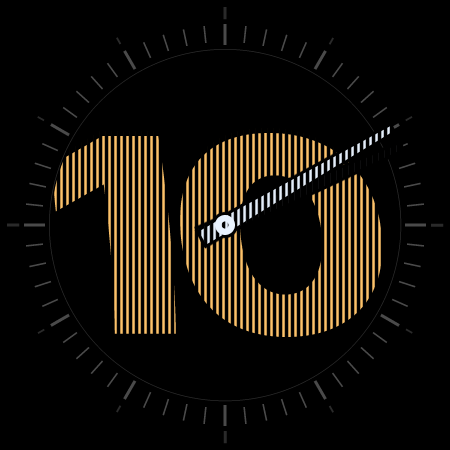
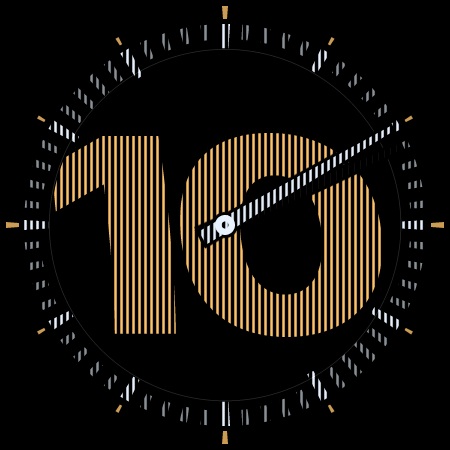
Scanimation: the tick ring dances with the numeral
Minute ticks become bold striped wedges in twelve chained Scanimation
frames under the white minute sheet, on the dance clock: they kick inward
on each beat while two crests chase round the dial. Hour indices print in
amber. Ambient keeps still grey ticks.

Claude-Session: https://claude.ai/code/session_01GnfoPmxsTXWwgWKX46TpFX

diff --git a/faces/scanimation/generate_xml.py b/faces/scanimation/generate_xml.py
@@ -46,6 +46,18 @@ Hours dance between changes
     hour change begins. In ambient the dance windows are hidden and the
     plain hour chain shows.
 
+The minute ring dances too
+    The sixty minute ticks are bold wedges (every tick at least one barrier
+    period wide, so even the ones parallel to the slits show in every frame)
+    seen through the white minute sheet. TICK_FRAMES frames chain exactly like
+    the dance, on the same clock, so they move together: on every beat, when
+    the numeral squashes, all the ticks kick inward, and two crests chase
+    each other round the dial, the ticks under them reaching in like an
+    equaliser. The ring never stops, not even during the hour change. Five-
+    minute ticks are printed solid, the others at TICK_DIM. The hour indices
+    outside the ring are printed in the numerals' amber. Ambient shows still,
+    grey ticks instead.
+
 Minutes: an analog hand, also a Scanimation
     Sixty minute windows, built the same way as the hours: window m
     interleaves the hand at minute m and at minute m+1 in the same 3 px
@@ -97,8 +109,14 @@ MINUTE_COLUMN = MINUTE_PERIOD / 2
 MINUTE_RULE = 2.5              # px
 
 RING_IN, RING_OUT = 180, 201                 # minute ring (safe inset 24 -> r <= 201)
-TICK = (RING_IN + 3, RING_OUT - 1, 1.6)      # printed minute marking: r0, r1, width
-TICK_FIVE = (RING_IN, RING_OUT, 3.0)         # printed five-minute marking
+TICK_MINUTE = (RING_OUT - 10, RING_OUT, 6.0, 7.5)       # minute tick: r0, r1, inner width, outer width
+TICK_FIVE = (RING_OUT - 19, RING_OUT, 7.0, 10.0) # five-minute tick
+TICK_DIM = 0.6               # minute ticks print at this strength, five-minute ticks at 1
+TICK_FRAMES = 12             # the ring's loop, on the dance clock
+TICK_KICK = 5.0              # px: every tick reaches inward on each beat...
+TICK_CREST = 10.0            # px: ...and further under the two travelling crests
+TICK_CREST_WIDTH = 6         # crest sharpness (power of a raised cosine)
+HOUR_INDEX_STRENGTH = 0.8    # amber hour indices outside the ring
 
 NUMERAL_HEIGHT = 224        # cap height of the hour numerals
 HOUR_LABELS = ["12"] + [str(h) for h in range(1, 12)]
@@ -106,7 +124,7 @@ HOUR_LABELS = ["12"] + [str(h) for h in range(1, 12)]
 HOUR_INK = "#FFFFC46B"
 MINUTE_INK = "#FFE9F3FF"
 PLATE_PRINT = "#FF2A2A2A"
-MINUTE_PRINT = "#FF4A4A4A"
+MINUTE_PRINT = "#FF4A4A4A"   # ambient ticks
 
 # Seconds past 12:00, shifted back so each window's change ends WINDOW_LAG after the hour.
 WINDOW_CLOCK = (f"((([HOUR_0_23] % 12) * 3600 + [MINUTE] * 60 + [SECOND] + {43200 - WINDOW_LAG})"
@@ -119,6 +137,9 @@ INTO = (f"(([MINUTE] * 60 + [SECOND] + {3600 - WINDOW_LAG % 3600}) % 3600"
 DANCE = f"(clamp({INTO}, 0, {DANCE_SECONDS}) * {DANCE_RATE})"   # frames danced
 DANCE_FRAME = f"(floor({DANCE}) % {DANCE_FRAMES})"
 DANCING = f"{INTO} < {DANCE_SECONDS}"
+TICKS = f"({INTO} * {DANCE_RATE})"           # ring frames, in step with the dance
+TICK_FRAME = f"(floor({TICKS}) % {TICK_FRAMES})"
+TICK_X = f"({-MINUTE_PERIOD} + ({TICKS} * {MINUTE_COLUMN:g}) % {MINUTE_PERIOD})"
 HOUR_X = f"({-HOUR_PERIOD} + (({WINDOW} + {CHANGE}) * {HOUR_COLUMN:g}) % {HOUR_PERIOD})"
 DANCE_X = f"({-HOUR_PERIOD} + (({WINDOW} + {DANCE}) * {HOUR_COLUMN:g}) % {HOUR_PERIOD})"
 MINUTE_X = (f"({-MINUTE_PERIOD} + (([MINUTE] + ([SECOND] + [MILLISECOND] / 1000) / 60)"
@@ -143,11 +164,13 @@ def downsample(mask):
     return mask.reshape(h // SS, SS, w // SS, SS).mean(axis=(1, 3))
 
 
-def radial_bar(x, y, angle, r0, r1, width):
-    """A radial marking at `angle` degrees clockwise from twelve."""
+def radial_bar(x, y, angle, r0, r1, width, outer_width=None):
+    """A radial marking at `angle` degrees clockwise from twelve, optionally tapered."""
     a = math.radians(angle)
     along = x * math.sin(a) - y * math.cos(a)
     across = x * math.cos(a) + y * math.sin(a)
+    if outer_width is not None:
+        width = width + (outer_width - width) * np.clip((along - r0) / (r1 - r0), 0, 1)
     return (along >= r0) & (along <= r1) & (np.abs(across) <= width / 2)
 
 
@@ -312,26 +335,55 @@ def hour_sheet():
     return downsample(band(x, HOUR_COLUMN / 2, HOUR_RULE, HOUR_PERIOD))
 
 
+def tick_marks(t=None):
+    """The sixty ticks as supersampled strength; t is the ring's loop phase (None: at rest)."""
+    x, y = grid(SIZE, SIZE)
+    marks = np.zeros_like(x, dtype=np.float32)
+    beat = 0 if t is None else (1 - math.cos(4 * math.pi * t)) / 2   # the dance's beat
+    for m in range(60):
+        r0, r1, w0, w1 = TICK_FIVE if m % 5 == 0 else TICK_MINUTE
+        if t is not None:
+            theta = math.radians(m * 6)
+            crest = ((1 + math.cos(2 * (theta - math.pi * t))) / 2) ** TICK_CREST_WIDTH
+            r0 -= TICK_KICK * beat + TICK_CREST * crest
+        strength = 1.0 if m % 5 == 0 else TICK_DIM
+        marks = np.maximum(marks, strength * radial_bar(x, y, m * 6, r0, r1, w0, w1))
+    return marks
+
+
 def minute_print():
-    """Sixty faint minute markings printed on the plate."""
+    """The ticks at rest, printed grey for ambient."""
+    return downsample(tick_marks())
+
+
+def tick_windows():
+    """Ring window p: the ticks in frame p and frame p + 1 in alternating columns, cropped."""
+    x, _ = grid(SIZE, SIZE)
+    column = np.floor((x % MINUTE_PERIOD) / MINUTE_COLUMN).astype(int)
+    frames = [tick_marks(p / TICK_FRAMES) for p in range(TICK_FRAMES)]
+    out = []
+    for p in range(TICK_FRAMES):
+        nxt = frames[(p + 1) % TICK_FRAMES]
+        out.append(crop(downsample(np.where(column == p % 2, frames[p], nxt))))
+    return out
+
+
+def hour_index_print():
+    """Amber hour indices outside the ring, longer at 12, 3, 6 and 9."""
     x, y = grid(SIZE, SIZE)
     marks = np.zeros_like(x, dtype=bool)
-    for m in range(60):
-        marks |= radial_bar(x, y, m * 6, *(TICK_FIVE if m % 5 == 0 else TICK))
-    return downsample(marks)
+    for i in range(12):
+        if i % 3 == 0:
+            marks |= radial_bar(x, y, i * 30, RING_OUT + 5, RING_OUT + 18, 4.0, 6.0)
+        else:
+            marks |= radial_bar(x, y, i * 30, RING_OUT + 7, RING_OUT + 15, 2.5, 3.5)
+    return downsample(marks) * HOUR_INDEX_STRENGTH
 
 
 def plate_print():
-    """Dim marks printed on the black mask: hour indices and the window rim."""
+    """Dim window rim printed on the black mask."""
     img = Image.new("L", (SIZE * SS, SIZE * SS), 0)
     draw = ImageDraw.Draw(img)
-    for i in range(12):
-        a = math.radians(i * 30)
-        r0, r1 = (RING_OUT + 5, RING_OUT + 17) if i % 3 == 0 else (RING_OUT + 8, RING_OUT + 15)
-        w = 3.2 if i % 3 == 0 else 2.0
-        p0 = (C + r0 * math.sin(a), C - r0 * math.cos(a))
-        p1 = (C + r1 * math.sin(a), C - r1 * math.cos(a))
-        draw.line([(p0[0] * SS, p0[1] * SS), (p1[0] * SS, p1[1] * SS)], fill=255, width=int(w * SS))
     rr = RING_IN - 4
     draw.ellipse([(C - rr) * SS, (C - rr) * SS, (C + rr) * SS, (C + rr) * SS],
                  outline=255, width=int(0.75 * SS))
@@ -383,11 +435,19 @@ def slide(sheet, shift, margin):
     return (1 - frac) * a + frac * b
 
 
-def simulate(seconds, layers):
+def tick_state(seconds):
+    """Ring sheet offset in px and ring frame (mirrors TICK_X and TICK_FRAME)."""
+    into = (seconds - WINDOW_LAG) % 3600
+    ticks = into * DANCE_RATE
+    return (ticks * MINUTE_COLUMN) % MINUTE_PERIOD, math.floor(ticks) % TICK_FRAMES
+
+
+def simulate(seconds, layers, ambient=False):
     """Composite the face at a time given as seconds past 12:00."""
-    windows, hsheet, plate, mprint, mwindows, msheet, backing, cap, dances = layers
+    (windows, hsheet, plate, mprint, mwindows, msheet, backing, cap, dances,
+     hprint, twindows) = layers
     offset, window, frame = hour_state(seconds)
-    if frame is None:
+    if frame is None or ambient:
         hwin = windows[window]
     else:
         dalpha, (dx, dy, dw, dh) = dances[window][frame]
@@ -400,7 +460,15 @@ def simulate(seconds, layers):
     black = np.maximum(rotate(backing, minute * 6), rotate(backing, minute * 6 + 6))
     out = np.zeros((SIZE, SIZE, 3))
     out += plate[..., None] * hex_rgb(PLATE_PRINT)
-    out += mprint[..., None] * hex_rgb(MINUTE_PRINT)
+    out += hprint[..., None] * hex_rgb(HOUR_INK)
+    if ambient:
+        out += mprint[..., None] * hex_rgb(MINUTE_PRINT)
+    else:
+        toffset, tframe = tick_state(seconds)
+        talpha, (tx, ty, tw, th) = twindows[tframe]
+        twin = np.zeros((SIZE, SIZE))
+        twin[ty:ty + th, tx:tx + tw] = talpha
+        out += (slide(msheet, toffset, MINUTE_PERIOD) * twin)[..., None] * hex_rgb(MINUTE_INK)
     out += (slide(hsheet, offset, HOUR_PERIOD) * hwin)[..., None] * hex_rgb(HOUR_INK)
     out *= (1 - black)[..., None]
     out += (slide(msheet, moffset, MINUTE_PERIOD) * mwin)[..., None] * hex_rgb(MINUTE_INK)
@@ -487,7 +555,38 @@ def minute_ink(m, box):
     </Group>"""
 
 
-def xml(minute_boxes, dance_boxes):
+def tick_layers(tick_boxes):
+    """Live: the dancing ring windows. Ambient: the ticks printed still."""
+    live = []
+    for p, (x, y, w, h) in enumerate(tick_boxes):
+        live.append(f"""      <Group x="0" y="0" width="{SIZE}" height="{SIZE}" name="ticks_{p}">
+        <Transform target="alpha" value="{attr(TICK_FRAME)} == {p} ? 255 : 0" />
+        <Group x="{-MINUTE_PERIOD}" y="0" width="{SIZE + MINUTE_PERIOD}" height="{SIZE}" renderMode="SOURCE" name="ticks_{p}_rules">
+          <Transform target="x" value="{attr(TICK_X)}" />
+          <PartImage x="0" y="0" width="{SIZE + MINUTE_PERIOD}" height="{SIZE}">
+            <Image resource="scan_sheet_minute" />
+          </PartImage>
+        </Group>
+        <Group x="0" y="0" width="{SIZE}" height="{SIZE}" renderMode="MASK" name="ticks_{p}_window">
+          <PartImage x="{x}" y="{y}" width="{w}" height="{h}">
+            <Image resource="scan_ticks_{p}" />
+          </PartImage>
+        </Group>
+      </Group>""")
+    nl = chr(10)
+    return f"""    <Group x="0" y="0" width="{SIZE}" height="{SIZE}" name="ticks_live">
+      <Variant mode="AMBIENT" target="alpha" value="0" />
+{nl.join(live)}
+    </Group>
+    <Group x="0" y="0" width="{SIZE}" height="{SIZE}" alpha="0" name="ticks_ambient">
+      <Variant mode="AMBIENT" target="alpha" value="255" />
+      <PartImage x="0" y="0" width="{SIZE}" height="{SIZE}" name="minute_markings_print">
+        <Image resource="scan_minute_print" />
+      </PartImage>
+    </Group>"""
+
+
+def xml(minute_boxes, dance_boxes, tick_boxes):
     return f"""<?xml version="1.0" encoding="utf-8"?>
 <!-- Generated by generate_xml.py. Edit the generator, not this file. -->
 <WatchFace width="{SIZE}" height="{SIZE}">
@@ -497,9 +596,10 @@ def xml(minute_boxes, dance_boxes):
     <PartImage x="0" y="0" width="{SIZE}" height="{SIZE}" name="mask_plate_print">
       <Image resource="scan_plate" />
     </PartImage>
-    <PartImage x="0" y="0" width="{SIZE}" height="{SIZE}" name="minute_markings_print">
-      <Image resource="scan_minute_print" />
+    <PartImage x="0" y="0" width="{SIZE}" height="{SIZE}" name="hour_index_print">
+      <Image resource="scan_hour_print" />
     </PartImage>
+{tick_layers(tick_boxes)}
 {hour_layers(dance_boxes)}
 {backing(0, "[MINUTE]")}
 {backing(1, "([MINUTE] + 1)")}
@@ -543,14 +643,20 @@ def main():
     save_alpha(hsheet, "scan_sheet_hour", HOUR_INK)
     save_alpha(plate, "scan_plate", PLATE_PRINT)
     save_alpha(mprint, "scan_minute_print", MINUTE_PRINT)
+    hprint, twindows = hour_index_print(), tick_windows()
+    save_alpha(hprint, "scan_hour_print", HOUR_INK)
+    for p, (alpha, _) in enumerate(twindows):
+        save_alpha(alpha, f"scan_ticks_{p}")
     dances = dance_windows()
     for k, row in enumerate(dances):
         for p, (alpha, _) in enumerate(row):
             save_alpha(alpha, f"scan_dance_{k}_{p}")
     (HERE / "watchface.xml").write_text(xml([box for _, box in mwindows],
-                                            [[box for _, box in row] for row in dances]))
+                                            [[box for _, box in row] for row in dances],
+                                            [box for _, box in twindows]))
 
-    layers = (windows, hsheet, plate, mprint, mwindows, msheet, back, cap, dances)
+    layers = (windows, hsheet, plate, mprint, mwindows, msheet, back, cap, dances,
+              hprint, twindows)
     previews = HERE / "previews"
     previews.mkdir(exist_ok=True)
     for old in previews.glob("*.png"):
@@ -558,6 +664,8 @@ def main():
     for label, seconds in PREVIEW_TIMES.items():
         simulate(seconds, layers).save(previews / f"{label}.png", optimize=True)
     simulate(PREVIEW_TIMES["10-10"], layers).save(HERE / "preview.png", optimize=True)
+    simulate(PREVIEW_TIMES["10-10"], layers, ambient=True).save(previews / "10-10-ambient.png",
+                                                                optimize=True)
     for p in (3, 6, 9):                   # a few dance frames (live only)
         held = PREVIEW_TIMES["10-10"] + (p + 0.01) / DANCE_RATE
         simulate(held, layers).save(previews / f"10-10-dance-{p}.png", optimize=True)

diff --git a/faces/scanimation/notes.md b/faces/scanimation/notes.md
@@ -16,6 +16,11 @@ sideways under the mask to show the time.
   Two-digit hours dance in step like a chorus line. A smooth two-second loop
   of twelve frames. It comes back to rest for the hour change. Ambient shows
   it still.
+- **Ring**: the sixty minute ticks dance with the numeral. They are bold
+  white wedges striped by the barrier. On every beat they all kick inward,
+  and two crests chase round the dial with the ticks under them reaching in
+  like an equaliser. It never stops, even during the hour change. Hour indices
+  outside the ring are amber. Ambient: still grey ticks.
 - **Minute**: a white analog hand, also a Scanimation. Over every minute it
   changes from minute m's position into m+1's through the barrier: whole on
   the minute, two interleaved ghost hands at :30 seconds. Sixty faint
@@ -51,6 +56,14 @@ over ten minutes, so the numeral visibly changes into the next.
   begins. Live/ambient are two wrapper groups with AMBIENT Variants; the
   ambient one holds the plain hour chain. Mirroring the pair was tried and
   dropped: leaning together, the 1 of 12 ran into the 2.
+- **Ring windows** (`scan_ticks_p`): twelve frames chained frame p ->
+  p+1 under the white minute sheet, on the dance's clock (six frames a
+  second, the same INTO origin), so the kicks land on the numeral's squash.
+  The ring's clock is not clamped, so it keeps going through the change; 21600
+  frames an hour is a whole number of loops, so it wraps cleanly. Ticks are
+  at least 6 px wide (one barrier period) so ticks near 12 and 6, parallel
+  to the slits, still show in every frame. Minute ticks print at 60 %,
+  five-minute ticks solid.
 - The minute hand uses the same two-frame scheme. Sixty windows
   (`scan_minute_m`) hold the hand at m and m+1, with hand m in column parity
   m % 2. They are cropped to the hand's bounding box, so sixty decoded bitmaps
@@ -93,6 +106,10 @@ over ten minutes, so the numeral visibly changes into the next.
    jump) through a rest frame. Patrick: "That looks cheap." Rigid tilts with
    a snap back to rest read as clip art. Now a twelve-frame loop of
    bending, squashing, rubber-hose motion with a continuous slide.
+8. **The ring joins in** (Patrick: "make the edge ticks better to match
+   things as well. They are sort of dull for what the watch is now"). The
+   faint grey printed ticks became a dancing Scanimation ring, and the hour
+   indices became amber.
 
 Ambient: a Variant alpha directly on the hour windows would override the
 per-window switch, so Variants sit on two wrapper groups instead: live
